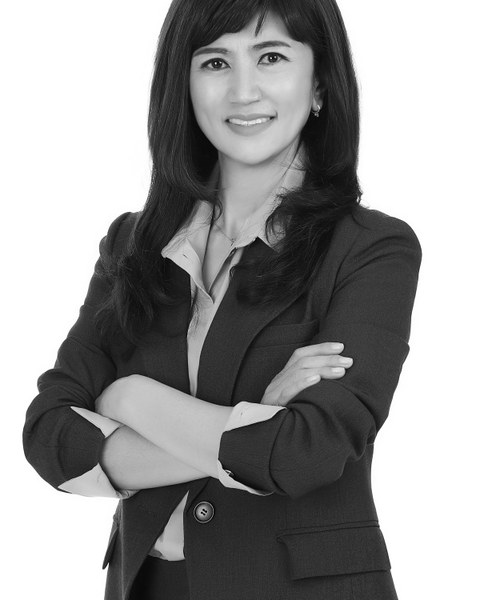
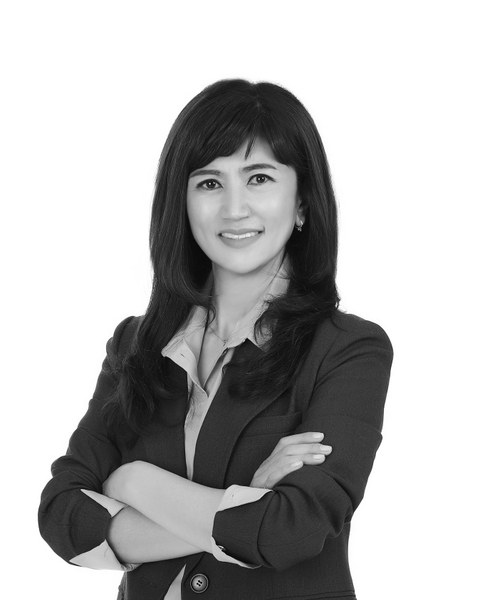
Widen teacher photo crops to stop cutting off arms/shoulders
Turns out the "cut off" complaint wasn't heads at the top — it was
crossed arms and shoulders getting clipped at the left/right edges,
since the crop boxes were zoomed in too tight horizontally. Widened
left/right bounds for kimjinwoo, baekyungho, shinbyungchul, ansoseon,
choiyoonhoo, jhoyoonsung, jangHyojin, and parkchanmi, recomputing
height to match the 4:5 target ratio without losing headroom.

Bump cache-busting version on all teacher images to v=3.

diff --git a/index.html b/index.html
@@ -194,58 +194,58 @@
     </div>
     <div class="carousel carousel-teachers" data-carousel>
       <div class="carousel-track">
-        <div class="carousel-slide tcard lightbox-trigger" data-name="디쌤" data-role="원장 · 영어" data-photo="assets/teacher-disaem.jpg?v=2">
-          <div class="tcard-photo-wrap"><img class="tcard-photo" src="assets/teacher-disaem.jpg?v=2" alt="디쌤"></div>
+        <div class="carousel-slide tcard lightbox-trigger" data-name="디쌤" data-role="원장 · 영어" data-photo="assets/teacher-disaem.jpg?v=3">
+          <div class="tcard-photo-wrap"><img class="tcard-photo" src="assets/teacher-disaem.jpg?v=3" alt="디쌤"></div>
           <h3>디쌤</h3>
           <p class="tcard-role">원장 · 영어</p>
         </div>
-        <div class="carousel-slide tcard lightbox-trigger" data-name="김진우" data-role="부원장 · 국어" data-photo="assets/teacher-kimjinwoo.jpg?v=2">
-          <div class="tcard-photo-wrap"><img class="tcard-photo" src="assets/teacher-kimjinwoo.jpg?v=2" alt="김진우"></div>
+        <div class="carousel-slide tcard lightbox-trigger" data-name="김진우" data-role="부원장 · 국어" data-photo="assets/teacher-kimjinwoo.jpg?v=3">
+          <div class="tcard-photo-wrap"><img class="tcard-photo" src="assets/teacher-kimjinwoo.jpg?v=3" alt="김진우"></div>
           <h3>김진우</h3>
           <p class="tcard-role">부원장 · 국어</p>
         </div>
-        <div class="carousel-slide tcard lightbox-trigger" data-name="김금단" data-role="팀장 · 영어" data-photo="assets/teacher-kimgeumdan.jpg?v=2">
-          <div class="tcard-photo-wrap"><img class="tcard-photo" src="assets/teacher-kimgeumdan.jpg?v=2" alt="김금단"></div>
+        <div class="carousel-slide tcard lightbox-trigger" data-name="김금단" data-role="팀장 · 영어" data-photo="assets/teacher-kimgeumdan.jpg?v=3">
+          <div class="tcard-photo-wrap"><img class="tcard-photo" src="assets/teacher-kimgeumdan.jpg?v=3" alt="김금단"></div>
           <h3>김금단</h3>
           <p class="tcard-role">팀장 · 영어</p>
         </div>
-        <div class="carousel-slide tcard lightbox-trigger" data-name="배경호" data-role="팀장 · 수학" data-photo="assets/teacher-baekyungho.jpg?v=2">
-          <div class="tcard-photo-wrap"><img class="tcard-photo" src="assets/teacher-baekyungho.jpg?v=2" alt="배경호"></div>
+        <div class="carousel-slide tcard lightbox-trigger" data-name="배경호" data-role="팀장 · 수학" data-photo="assets/teacher-baekyungho.jpg?v=3">
+          <div class="tcard-photo-wrap"><img class="tcard-photo" src="assets/teacher-baekyungho.jpg?v=3" alt="배경호"></div>
           <h3>배경호</h3>
           <p class="tcard-role">팀장 · 수학</p>
         </div>
-        <div class="carousel-slide tcard lightbox-trigger" data-name="신병철" data-role="수학" data-photo="assets/teacher-shinbyungchul.jpg?v=2">
-          <div class="tcard-photo-wrap"><img class="tcard-photo" src="assets/teacher-shinbyungchul.jpg?v=2" alt="신병철"></div>
+        <div class="carousel-slide tcard lightbox-trigger" data-name="신병철" data-role="수학" data-photo="assets/teacher-shinbyungchul.jpg?v=3">
+          <div class="tcard-photo-wrap"><img class="tcard-photo" src="assets/teacher-shinbyungchul.jpg?v=3" alt="신병철"></div>
           <h3>신병철</h3>
           <p class="tcard-role">수학</p>
         </div>
-        <div class="carousel-slide tcard lightbox-trigger" data-name="안소현" data-role="국어" data-photo="assets/teacher-ansoseon.jpg?v=2">
-          <div class="tcard-photo-wrap"><img class="tcard-photo" src="assets/teacher-ansoseon.jpg?v=2" alt="안소현"></div>
+        <div class="carousel-slide tcard lightbox-trigger" data-name="안소현" data-role="국어" data-photo="assets/teacher-ansoseon.jpg?v=3">
+          <div class="tcard-photo-wrap"><img class="tcard-photo" src="assets/teacher-ansoseon.jpg?v=3" alt="안소현"></div>
           <h3>안소현</h3>
           <p class="tcard-role">국어</p>
         </div>
-        <div class="carousel-slide tcard lightbox-trigger" data-name="최윤후" data-role="영어" data-photo="assets/teacher-choiyoonhoo.jpg?v=2">
-          <div class="tcard-photo-wrap"><img class="tcard-photo" src="assets/teacher-choiyoonhoo.jpg?v=2" alt="최윤후"></div>
+        <div class="carousel-slide tcard lightbox-trigger" data-name="최윤후" data-role="영어" data-photo="assets/teacher-choiyoonhoo.jpg?v=3">
+          <div class="tcard-photo-wrap"><img class="tcard-photo" src="assets/teacher-choiyoonhoo.jpg?v=3" alt="최윤후"></div>
           <h3>최윤후</h3>
           <p class="tcard-role">영어</p>
         </div>
-        <div class="carousel-slide tcard lightbox-trigger" data-name="조윤성" data-role="수학" data-photo="assets/teacher-jhoyoonsung.jpg?v=2">
-          <div class="tcard-photo-wrap"><img class="tcard-photo" src="assets/teacher-jhoyoonsung.jpg?v=2" alt="조윤성"></div>
+        <div class="carousel-slide tcard lightbox-trigger" data-name="조윤성" data-role="수학" data-photo="assets/teacher-jhoyoonsung.jpg?v=3">
+          <div class="tcard-photo-wrap"><img class="tcard-photo" src="assets/teacher-jhoyoonsung.jpg?v=3" alt="조윤성"></div>
           <h3>조윤성</h3>
           <p class="tcard-role">수학</p>
         </div>
-        <div class="carousel-slide tcard lightbox-trigger" data-name="장효진" data-role="국어" data-photo="assets/teacher-jangHyojin.jpg?v=2">
-          <div class="tcard-photo-wrap"><img class="tcard-photo" src="assets/teacher-jangHyojin.jpg?v=2" alt="장효진"></div>
+        <div class="carousel-slide tcard lightbox-trigger" data-name="장효진" data-role="국어" data-photo="assets/teacher-jangHyojin.jpg?v=3">
+          <div class="tcard-photo-wrap"><img class="tcard-photo" src="assets/teacher-jangHyojin.jpg?v=3" alt="장효진"></div>
           <h3>장효진</h3>
           <p class="tcard-role">국어</p>
         </div>
-        <div class="carousel-slide tcard lightbox-trigger" data-name="김정민" data-role="통합사회 · 한국사" data-photo="assets/teacher-kimjeongmin.jpg?v=2">
-          <div class="tcard-photo-wrap"><img class="tcard-photo" src="assets/teacher-kimjeongmin.jpg?v=2" alt="김정민"></div>
+        <div class="carousel-slide tcard lightbox-trigger" data-name="김정민" data-role="통합사회 · 한국사" data-photo="assets/teacher-kimjeongmin.jpg?v=3">
+          <div class="tcard-photo-wrap"><img class="tcard-photo" src="assets/teacher-kimjeongmin.jpg?v=3" alt="김정민"></div>
           <h3>김정민</h3>
           <p class="tcard-role">통합사회 · 한국사</p>
         </div>
-        <div class="carousel-slide tcard lightbox-trigger" data-name="박찬미" data-role="국어" data-photo="assets/teacher-parkchanmi.jpg?v=2">
-          <div class="tcard-photo-wrap"><img class="tcard-photo" src="assets/teacher-parkchanmi.jpg?v=2" alt="박찬미"></div>
+        <div class="carousel-slide tcard lightbox-trigger" data-name="박찬미" data-role="국어" data-photo="assets/teacher-parkchanmi.jpg?v=3">
+          <div class="tcard-photo-wrap"><img class="tcard-photo" src="assets/teacher-parkchanmi.jpg?v=3" alt="박찬미"></div>
           <h3>박찬미</h3>
           <p class="tcard-role">국어</p>
         </div>

diff --git a/process-teachers.js b/process-teachers.js
@@ -10,16 +10,16 @@ const OUT_W = 480, OUT_H = 600; // 4:5 portrait, consistent across all cards
 // the auto-fit step below only needs to make small adjustments.
 const photos = [
   { file: '디쌤 원장 프로필.jpg', out: 'teacher-disaem.jpg', top: 0.07, bottom: 0.88, left: 0.1635, right: 0.8115, normalize: true },
-  { file: '김진우 프로필.jpg', out: 'teacher-kimjinwoo.jpg', top: 0.05, bottom: 0.90, left: 0.15, right: 0.83 },
+  { file: '김진우 프로필.jpg', out: 'teacher-kimjinwoo.jpg', top: 0.04, bottom: 0.87, left: 0.09, right: 0.92 },
   { file: '김금단 프로필.png', out: 'teacher-kimgeumdan.jpg', top: 0.06, bottom: 0.87, left: 0.176, right: 0.824 },
-  { file: '배경호 프로필.jpg', out: 'teacher-baekyungho.jpg', top: 0.075, bottom: 0.90, left: 0.1825, right: 0.8425 },
-  { file: '신병철프로필.png', out: 'teacher-shinbyungchul.jpg', top: 0.08, bottom: 0.85, left: 0.192, right: 0.808 },
-  { file: '안소현 프로필.jpg', out: 'teacher-ansoseon.jpg', top: 0.09, bottom: 0.87, left: 0.176, right: 0.799 },
-  { file: '최윤후 프로필.jpg', out: 'teacher-choiyoonhoo.jpg', top: 0.065, bottom: 0.88, left: 0.2115, right: 0.8635 },
-  { file: '조윤성 프로필.png', out: 'teacher-jhoyoonsung.jpg', top: 0.08, bottom: 0.85, left: 0.192, right: 0.808 },
-  { file: '장효진 프로필.jpg', out: 'teacher-jangHyojin.jpg', top: 0.07, bottom: 0.82, left: 0.19, right: 0.79 },
+  { file: '배경호 프로필.jpg', out: 'teacher-baekyungho.jpg', top: 0.035, bottom: 0.89, left: 0.11, right: 0.92 },
+  { file: '신병철프로필.png', out: 'teacher-shinbyungchul.jpg', top: 0.045, bottom: 0.776, left: 0.08, right: 0.90 },
+  { file: '안소현 프로필.jpg', out: 'teacher-ansoseon.jpg', top: 0.06, bottom: 0.70, left: 0.15, right: 0.85 },
+  { file: '최윤후 프로필.jpg', out: 'teacher-choiyoonhoo.jpg', top: 0.035, bottom: 0.74, left: 0.11, right: 0.86 },
+  { file: '조윤성 프로필.png', out: 'teacher-jhoyoonsung.jpg', top: 0.12, bottom: 0.76, left: 0.13, right: 0.85 },
+  { file: '장효진 프로필.jpg', out: 'teacher-jangHyojin.jpg', top: 0.04, bottom: 0.75, left: 0.05, right: 0.90 },
   { file: '김정민 프로필.png', out: 'teacher-kimjeongmin.jpg', top: 0.045, bottom: 0.86, left: 0.2115, right: 0.8635 },
-  { file: '박한미 프로필.jpeg', out: 'teacher-parkchanmi.jpg', top: 0.09, bottom: 0.85, left: 0.196, right: 0.804 },
+  { file: '박한미 프로필.jpeg', out: 'teacher-parkchanmi.jpg', top: 0.03, bottom: 0.81, left: 0.10, right: 0.90 },
 ];
 
 const targetRatio = OUT_W / OUT_H; // 0.8
